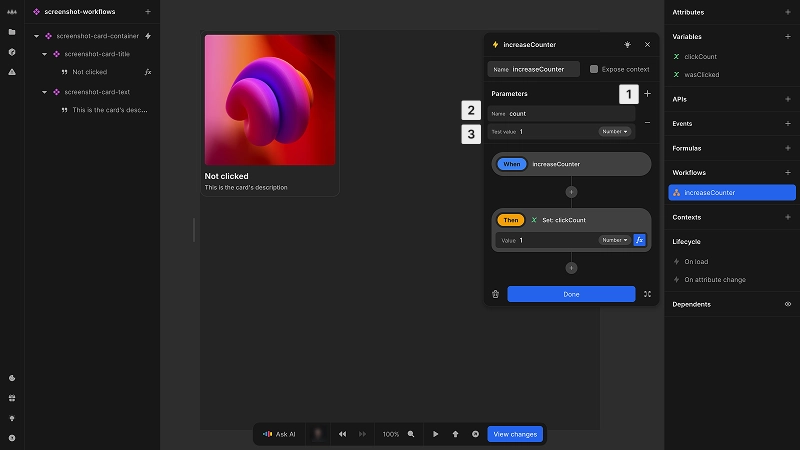
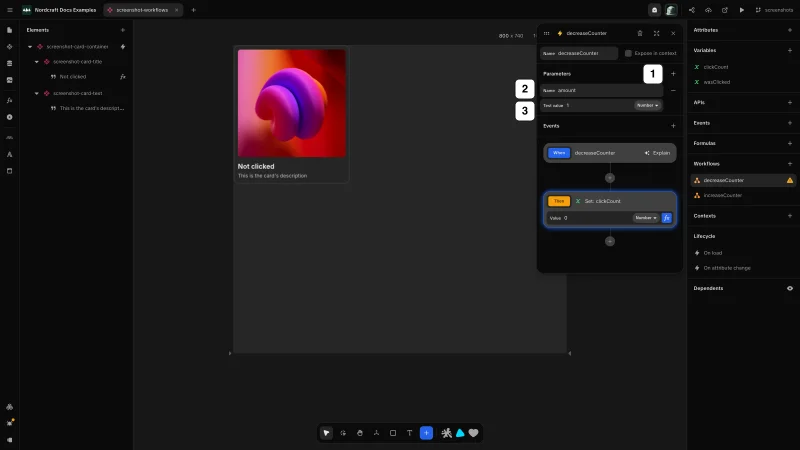
workflow parameters

diff --git a/docs/workflows/working-with-workflows/workflow-parameters.screenshot.ts b/docs/workflows/working-with-workflows/workflow-parameters.screenshot.ts
@@ -1,0 +1,30 @@
+import { defineScreenshot } from '@/scripts/capture-screenshots'
+import type { Page } from 'playwright'
+
+// Placeholder script for workflow-parameters.webp
+export default defineScreenshot({
+  path: '/projects/docs_examples/branches/screenshots/components/screenshot-workflows?mode=design&canvas-tool=select&canvas-width=800&selection=workflows.decreaseCounter.actions.0&rightpanel=events',
+  setup: async (page: Page) => {
+    await page.waitForTimeout(500)
+  },
+  annotations: [
+    {
+      type: 'badge',
+      x: 643,
+      y: 64,
+      text: '1'
+    },
+    {
+      type: 'badge',
+      x: 515,
+      y: 79,
+      text: '2'
+    },
+    {
+      type: 'badge',
+      x: 515,
+      y: 101,
+      text: '3'
+    }
+  ],
+})
